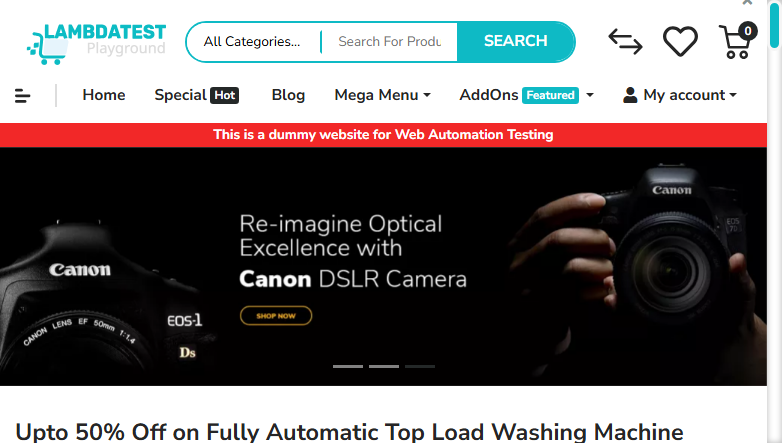
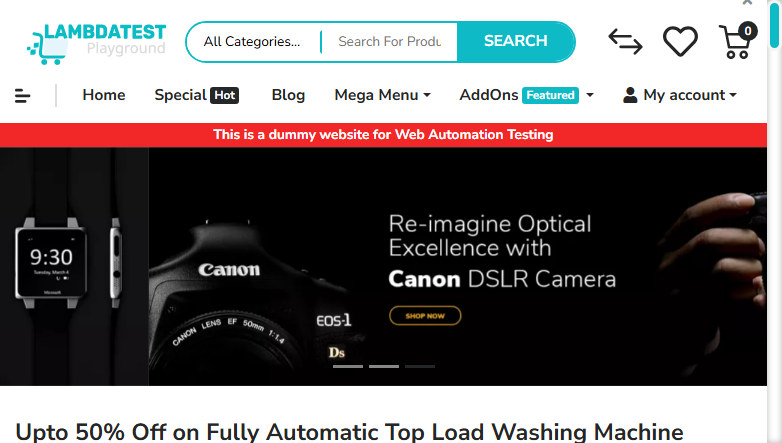
updated runner

diff --git a/ecommerce-lambdatest-bd/src/test/java/com/runner/RunnerTestNg.java b/ecommerce-lambdatest-bd/src/test/java/com/runner/RunnerTestNg.java
@@ -9,28 +9,28 @@ import org.testng.annotations.DataProvider;
 
     features = {
 
-//    		 "src/test/resources/com/features/ForgotPassword.feature",
-//    	      "src/test/resources/com/features/Search.feature",
-//    	      "src/test/resources/com/features/AddToCart.feature",
-//    	      "src/test/resources/com/features/UserAccountManagement.feature",
+    		 "src/test/resources/com/features/ForgotPassword.feature",
+    	      "src/test/resources/com/features/Search.feature",
+    	      "src/test/resources/com/features/AddToCart.feature",
+    	      "src/test/resources/com/features/UserAccountManagement.feature",
     	      "src/test/resources/com/features/ProductCompare.feature",
     	      "src/test/resources/com/features/ProductCheckOut.feature",
-//    	       "src/test/resources/com/features/Blog.feature",
-//    	       "src/test/resources/com/features/AffiliateAccount.feature",
-//    	       "src/test/resources/com/features/ProductReview.feature",
+    	       "src/test/resources/com/features/Blog.feature",
+    	       "src/test/resources/com/features/AffiliateAccount.feature",
+    	       "src/test/resources/com/features/ProductReview.feature",
     	      "src/test/resources/com/features/MyOrder.feature",
     	      "src/test/resources/com/features/Home.feature",
     	      "src/test/resources/com/features/AddOnsDesigns.feature",
-    	      "src/test/resources/com/features/UserRegistration.feature"
-//    	      "src/test/resources/com/features/EstimateShippingStatus.feature",
-//    	      "src/test/resources/com/features/FAQ.feature",
-//    	      "src/test/resources/com/features/SpecialOffer.feature",
-//    	      "src/test/resources/com/features/UserLogin.feature",
-//    	      "src/test/resources/com/features/Verify_product_url.feature",
-//    	      "src/test/resources/com/features/AddOns.feature",
-//            "src/test/resources/com/features/ShoppingCartTableVerification.feature",
-//            "src/test/resources/com/features/linkchecker.feature",
-//	    	  "src/test/resources/com/features/MegaMenu.feature"
+    	      "src/test/resources/com/features/UserRegistration.feature",
+    	      "src/test/resources/com/features/EstimateShippingStatus.feature",
+    	      "src/test/resources/com/features/FAQ.feature",
+    	      "src/test/resources/com/features/SpecialOffer.feature",
+    	      "src/test/resources/com/features/UserLogin.feature",
+    	      "src/test/resources/com/features/Verify_product_url.feature",
+    	      "src/test/resources/com/features/AddOns.feature",
+            "src/test/resources/com/features/ShoppingCartTableVerification.feature",
+            "src/test/resources/com/features/linkchecker.feature",
+	    	  "src/test/resources/com/features/MegaMenu.feature"
 
 
     },
